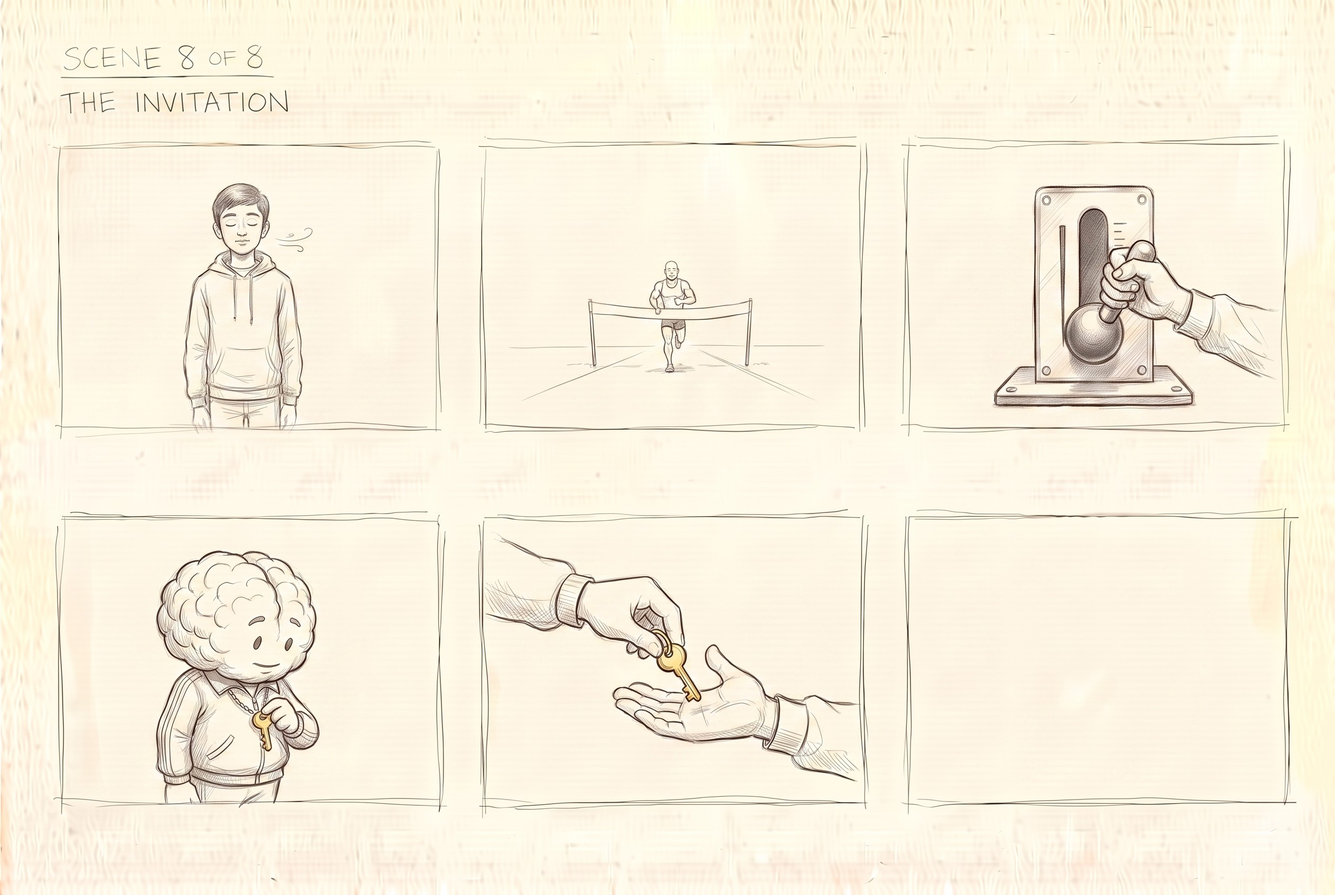
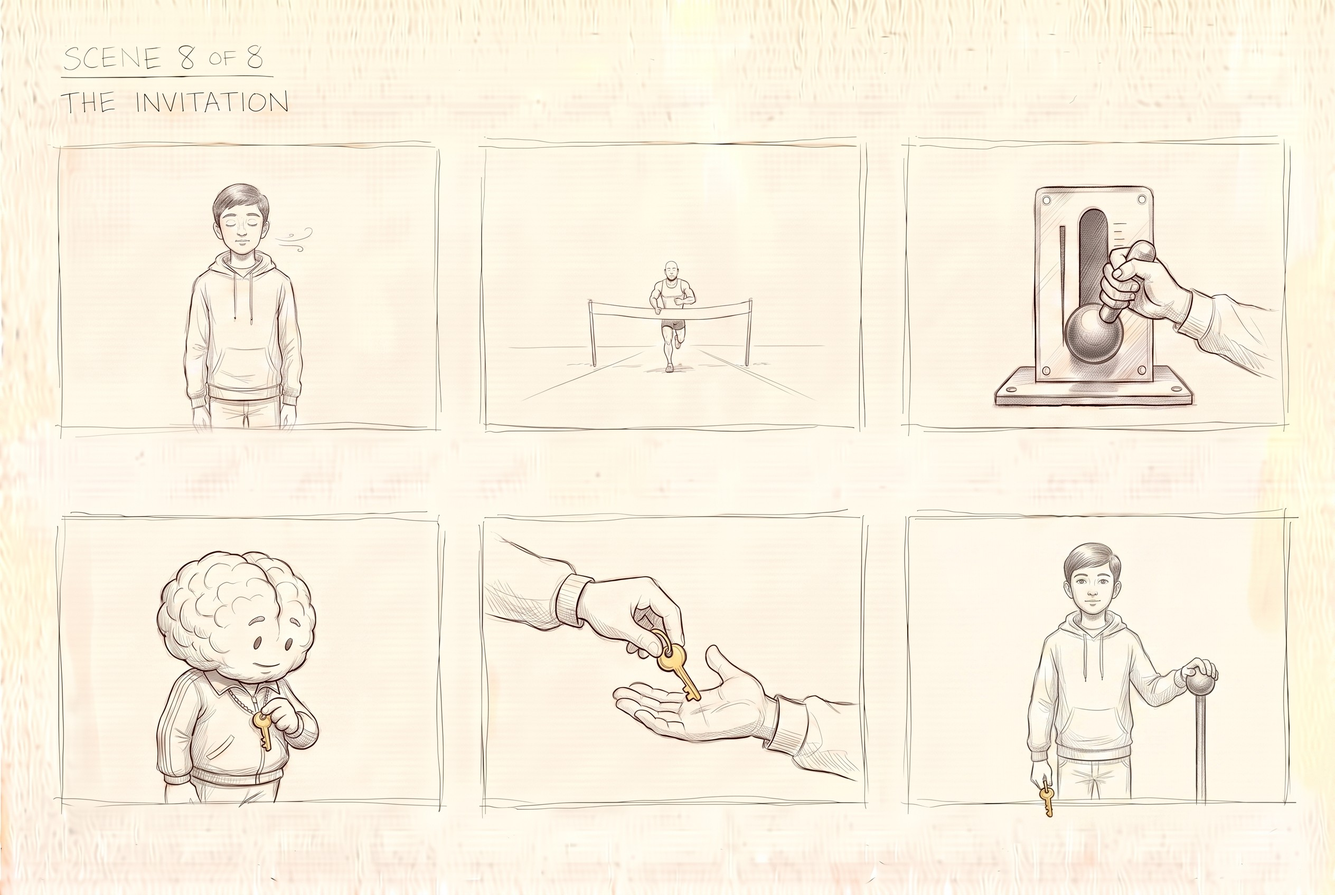
Version six is boarded in full: eight scenes, forty eight panels, one evening
The last image of the film is the boy looking at us with the gold key in his hand and
the other hand on the lever. Everything Neha asked for is in the boards, and the
runner crosses his line so the man we opened on is finished.

Next: to Neha by midday on WhatsApp.

diff --git a/STATE.md b/STATE.md
@@ -492,6 +492,22 @@ drawn element now obeys paper, and the two registers can never blur, because pap
 **Next is scene three, and it contains the first crossing:** the drawn runner leaves the pop up spread
 and walks out onto the real wooden desk. That is the shot the whole visual law exists to make possible.
 
+**11.8.2026. VERSION SIX IS BOARDED IN FULL. EIGHT SCENES, FORTY EIGHT PANELS.**
+`assets/V6/boards/V6_S1` to `V6_S8`. The whole film visible on eight sheets, made in one evening.
+
+**The method that did it, and it is the fastest thing on this production.** One sheet per scene on Nano
+Banana Pro, two references, a cast strip built in the container plus the previous approved sheet. Then
+single panel repair in the editor wherever a beat missed, which happened on four of eight and cost one
+panel each rather than a whole sheet.
+
+**Everything Neha asked for is in it.** The factory, the phone in low power mode, the seven step chain
+with the real terms, Hill and Noakes both credited by date, and the closing invitation.
+
+**And the film now closes properly.** The runner crosses his line in scene 8, so the man the film opens
+on is finished rather than abandoned, which the earlier structure did not do.
+
+**Next: the boards go to Neha by midday on WhatsApp.**
+
 **So frames are built in passes now.** Pass one is the drawn world alone, no photographic objects, all
 the attention on anatomy and view and scale. Pass two is image to image on the approved pass one, adding
 only the glass and the cap. Each pass stays inside the budget, a failure costs one pass instead of the
